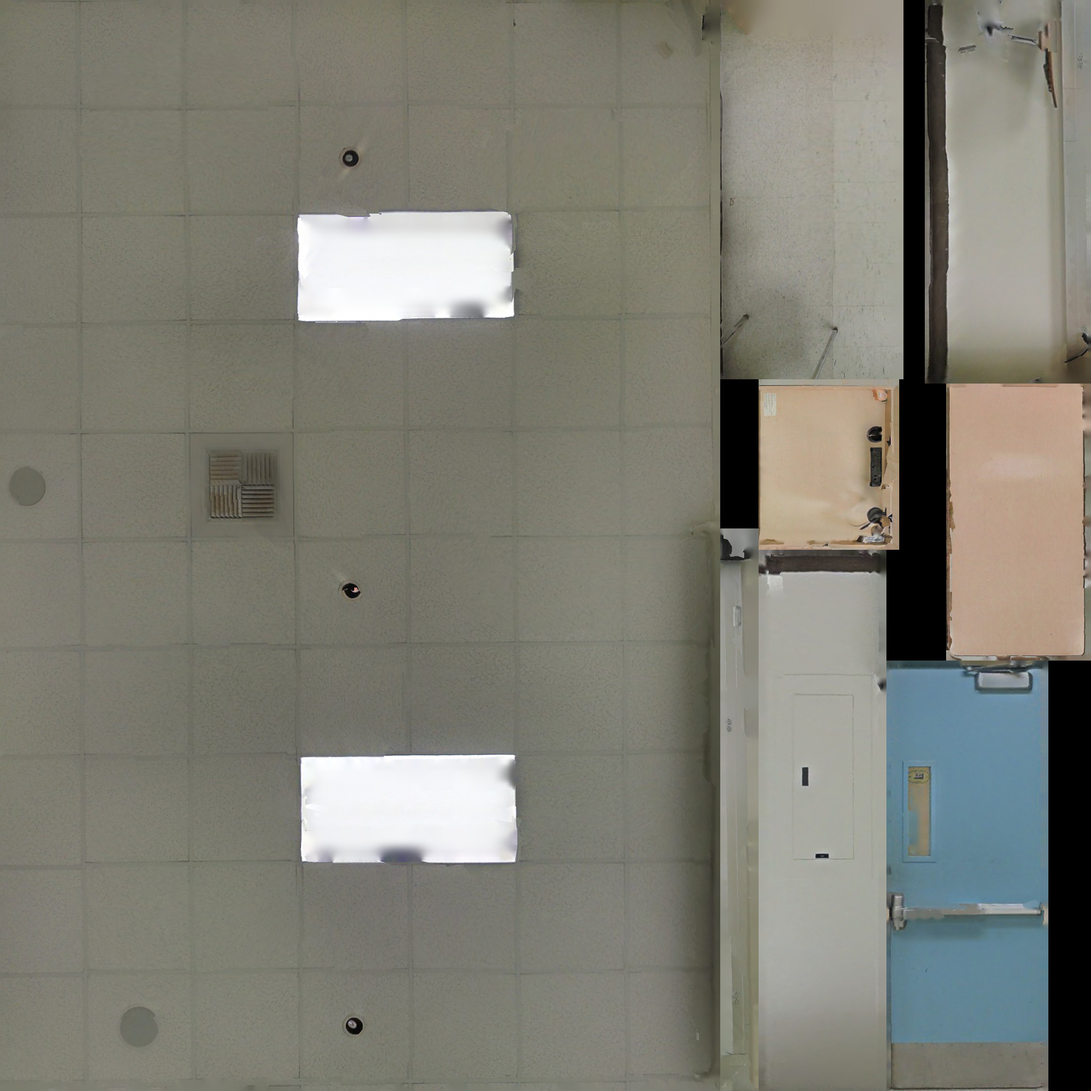
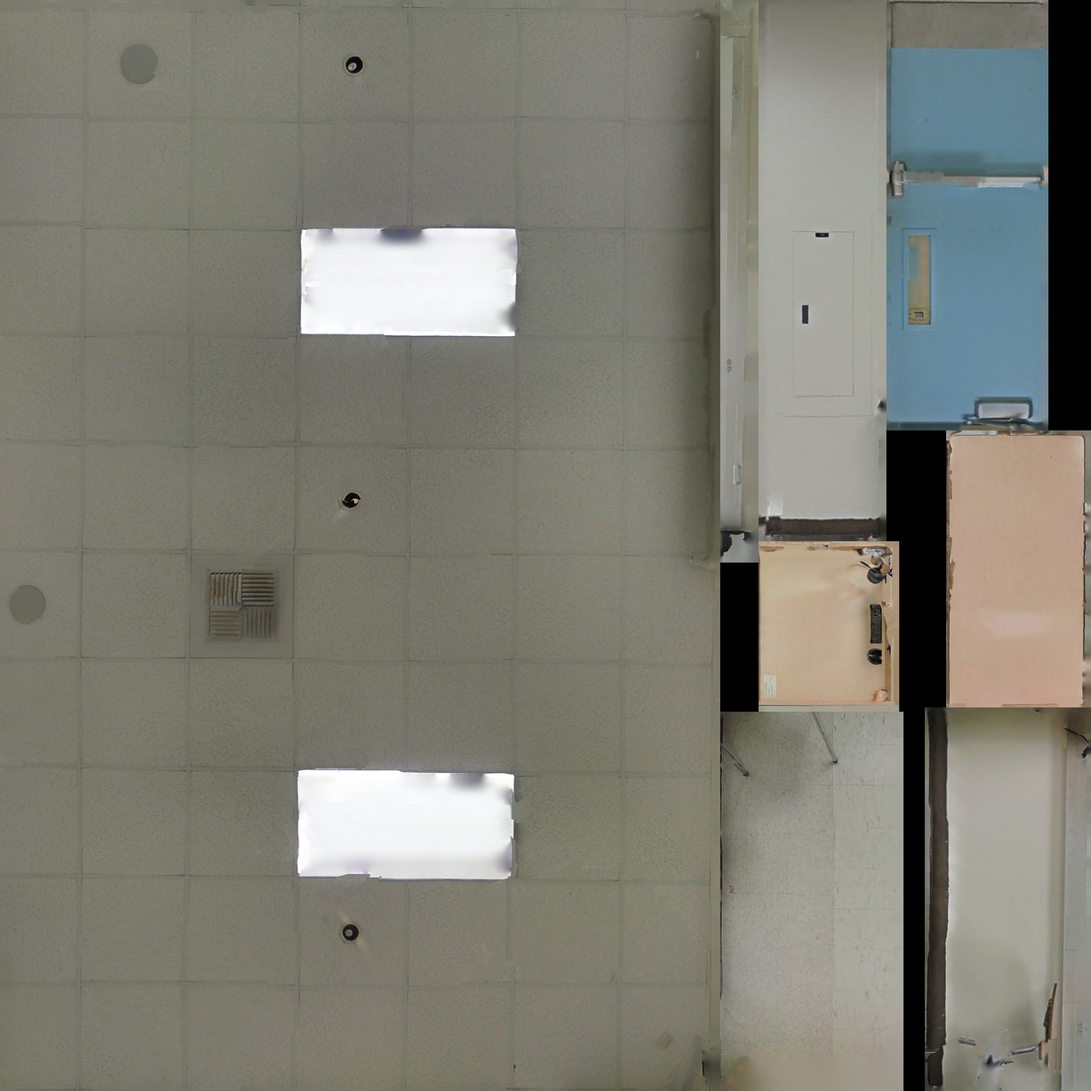
Merged and got the code for moving through the model to work.

diff --git a/AR Hide And Go Seek/C++ Source/TrackerHandler.mm b/AR Hide And Go Seek/C++ Source/TrackerHandler.mm
@@ -8,6 +8,7 @@
 
 #include "TrackerHandler.hpp"
 #include "glm/gtx/rotate_vector.hpp"
+#include "glm/gtc/type_ptr.hpp"
 
 using namespace std;
 using namespace glm;
@@ -15,8 +16,13 @@ using namespace glm;
 TrackerHandler::TrackerHandler(TextureManager* manager, int w, int h)
 {
 	roomModel = new BasicMesh("classroom.obj", manager);
-	position  = vec3(0.0, 0.0, 14.0);
+	roomModel->SetRotation(vec3(0.0, -pi<float>()/2.0, -pi<float>()/2.0));
+	
+	position  = vec3(0.0, 1.62, 0.0);
 	yawAngle = pitchAngle = 0.0;
+	
+	joyStickRightx = joyStickRighty = 0.0;
+	joyStickLeftx  = joyStickLefty  = 0.0;
 	
 	width = w;
 	height = h;
@@ -30,6 +36,8 @@ TrackerHandler::~TrackerHandler()
 
 void TrackerHandler::Draw(ShaderProgram* program)
 {
+	glUniformMatrix4fv(program->GetLocation("projection"), 1, GL_FALSE, value_ptr(GetProjectionMatrix()));
+	glUniformMatrix4fv(program->GetLocation("view"), 1, GL_FALSE, value_ptr(GetViewMatrix()));
 	roomModel->Draw(program);
 }
 
@@ -43,7 +51,7 @@ void TrackerHandler::Update(float deltaTime)
 	vec3 f = rotate(vec3(0.0, 0.0, -1.0), yawAngle, vec3(0.0, 1.0, 0.0));
 	vec3 s = rotate(vec3(1.0, 0.0, 0.0), yawAngle, vec3(0.0, 1.0, 0.0));
 	vec3 direction = -1.0f * f * joyStickLefty + s * joyStickLeftx;
-	position += 5.0f * direction * (float)deltaTime;
+	position += 2.0f * direction * (float)deltaTime;
 	
 }
 

diff --git a/AR Hide And Go Seek/Objective-C Source/GameViewController.mm b/AR Hide And Go Seek/Objective-C Source/GameViewController.mm
@@ -40,6 +40,8 @@
     view.drawableDepthFormat = GLKViewDrawableDepthFormat24;
     
     UIPanGestureRecognizer* panGesture = [[UIPanGestureRecognizer alloc] initWithTarget:self action:@selector(onPanEvent:)];
+	panGesture.minimumNumberOfTouches = 1;
+	panGesture.maximumNumberOfTouches = 1;
     [self.view addGestureRecognizer:panGesture];
     
     [self setupGL];
@@ -109,7 +111,7 @@
             PanMoved(translation.x, translation.y);
             break;
             
-        case UIGestureRecognizerStateFailed:
+        case UIGestureRecognizerStateEnded:
             PanEnded();
             break;
             

diff --git a/AR Hide And Go Seek/C++ Source/Main.mm b/AR Hide And Go Seek/C++ Source/Main.mm
@@ -22,7 +22,7 @@ void Initialize(float width, float height)
     glEnable(GL_DEPTH_TEST);
     
     textureManager = new TextureManager();
-    trackerHandler = new TrackerHandler(textureManager);
+    trackerHandler = new TrackerHandler(textureManager, width, height);
     
     basicMeshShader = new ShaderProgram("BasicMesh", {"position", "uv"}, {"projection", "view", "model", "uvMap"});
 }
